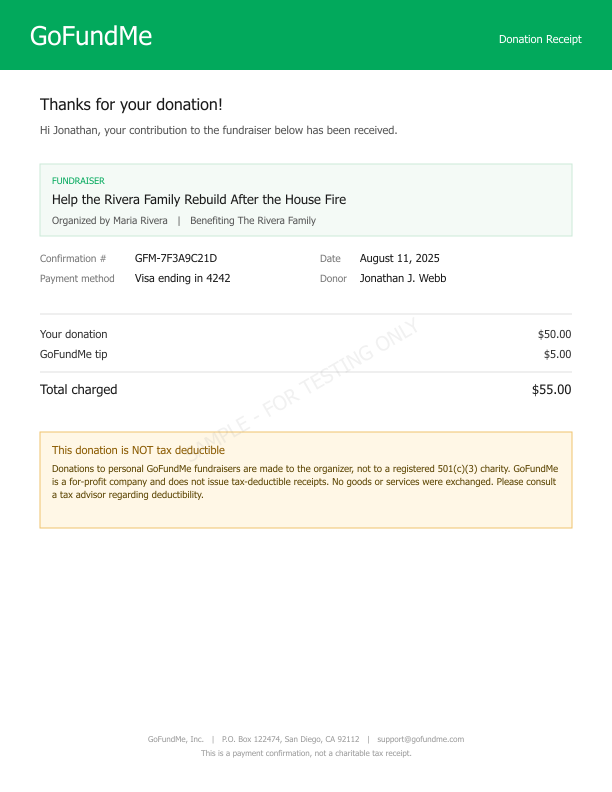
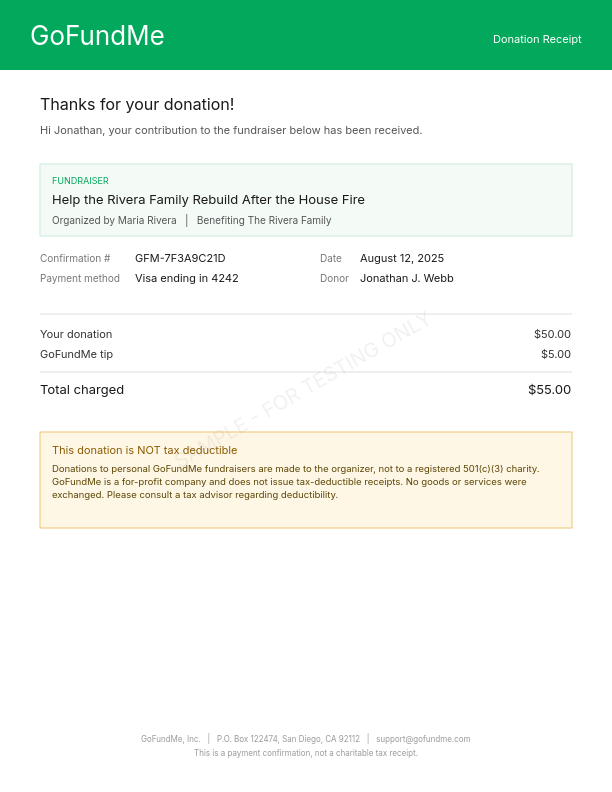
fix: align OCR fixture rendering with source data

diff --git a/scripts/generate_from_donations.js b/scripts/generate_from_donations.js
@@ -81,6 +81,16 @@ function formatMoney(amount) {
     return '$' + amount.toLocaleString('en-US', { minimumFractionDigits: 2, maximumFractionDigits: 2 });
 }
 
+function getGoFundMeReceiptAmounts(donation) {
+    const donationAmount = donation.amount;
+    const tip = donation.tip || 0;
+    return {
+        donationAmount,
+        tip,
+        total: donationAmount + tip
+    };
+}
+
 function formatAddress(donor) {
     return `${donor.address}, ${donor.city}, ${donor.state} ${donor.zip}`;
 }
@@ -561,8 +571,7 @@ function generateGoFundMeReceipt(donation) {
     ctx.fillRect(0, 0, width, height);
 
     const c = donation.campaign || {};
-    const tip = donation.tip || 0;
-    const total = donation.amount + tip;
+    const amounts = getGoFundMeReceiptAmounts(donation);
 
     // Brand header
     ctx.fillStyle = '#02a95c';
@@ -633,12 +642,12 @@ function generateGoFundMeReceipt(donation) {
     ctx.fillStyle = '#333333';
     ctx.fillText('Your donation', 40, y);
     ctx.textAlign = 'right';
-    ctx.fillText(formatMoney(donation.amount), width - 40, y);
+    ctx.fillText(formatMoney(amounts.donationAmount), width - 40, y);
     ctx.textAlign = 'left';
     y += 20;
     ctx.fillText('GoFundMe tip', 40, y);
     ctx.textAlign = 'right';
-    ctx.fillText(formatMoney(tip), width - 40, y);
+    ctx.fillText(formatMoney(amounts.tip), width - 40, y);
     ctx.textAlign = 'left';
     y += 14;
     ctx.strokeStyle = '#e0e0e0';
@@ -648,7 +657,7 @@ function generateGoFundMeReceipt(donation) {
     ctx.fillStyle = '#1a1a1a';
     ctx.fillText('Total charged', 40, y);
     ctx.textAlign = 'right';
-    ctx.fillText(formatMoney(total), width - 40, y);
+    ctx.fillText(formatMoney(amounts.total), width - 40, y);
     ctx.textAlign = 'left';
 
     y += 38;
@@ -766,10 +775,14 @@ function generateForm8283A(donation) {
     
     // Data row
     ctx.strokeRect(30, y, width - 60, 45);
-    ctx.font = '9px Inter';
-    ctx.fillText(donation.donee.name.substring(0, 25), 35, y + 15);
+    ctx.font = '8px Inter';
+    const doneeNameLines = wrapText(ctx, donation.donee.name, 150);
+    if (doneeNameLines.length > 2) {
+        throw new Error(`Donee name does not fit Form 8283-A: ${donation.donee.name}`);
+    }
+    doneeNameLines.forEach((line, index) => ctx.fillText(line, 35, y + 11 + index * 9));
     ctx.font = '7px Inter';
-    ctx.fillText(donation.donee.address.substring(0, 30), 35, y + 28);
+    ctx.fillText(donation.donee.address.substring(0, 30), 35, y + 36);
     
     ctx.font = '9px Inter';
     const descLines = wrapText(ctx, donation.assetDescription, 115);
@@ -1464,4 +1477,14 @@ async function main() {
     console.log(`  Form types:`, manifest.formCounts);
 }
 
-main().catch(console.error);
+if (require.main === module) {
+    main().catch(console.error);
+}
+
+module.exports = {
+    formatDate,
+    formatDateShort,
+    formatMoney,
+    getGoFundMeReceiptAmounts,
+    wrapText
+};

diff --git a/scripts/validate_fixtures.js b/scripts/validate_fixtures.js
@@ -2,6 +2,14 @@
 
 const fs = require('fs');
 const path = require('path');
+const { createCanvas } = require('canvas');
+const {
+    formatDate,
+    formatDateShort,
+    formatMoney,
+    getGoFundMeReceiptAmounts,
+    wrapText
+} = require('./generate_from_donations');
 
 const root = path.join(__dirname, '..');
 const donations = JSON.parse(
@@ -121,6 +129,54 @@ assert(
         d015Manifest?.expectedFields?.ein_intentional_synthetic_no_match === true,
     'D015 manifest must retain the printed EIN and its terminal NOT_FOUND expectation'
 );
+
+const d023 = fixture('D023');
+const measurementContext = createCanvas(612, 792).getContext('2d');
+measurementContext.font = '8px Inter';
+const d023DoneeNameLines = wrapText(measurementContext, d023.donee.name, 150);
+assert(
+    d023DoneeNameLines.length <= 2 &&
+        d023DoneeNameLines.join(' ') === d023.donee.name,
+    'D023 donee name must render in full within the two-line Form 8283-A cell'
+);
+
+const goFundMeExpectations = {
+    D035: {
+        date: 'August 12, 2025',
+        shortDate: '08/12/2025',
+        donation: '$50.00',
+        tip: '$5.00',
+        total: '$55.00'
+    },
+    D036: {
+        date: 'November 4, 2025',
+        shortDate: '11/04/2025',
+        donation: '$150.00',
+        tip: '$0.00',
+        total: '$150.00'
+    },
+    D037: {
+        date: 'January 19, 2026',
+        shortDate: '01/19/2026',
+        donation: '$25.00',
+        tip: '$3.75',
+        total: '$28.75'
+    }
+};
+
+for (const [id, expected] of Object.entries(goFundMeExpectations)) {
+    const donation = fixture(id);
+    const amounts = getGoFundMeReceiptAmounts(donation);
+    assert(formatDate(donation.contributionDate) === expected.date, `${id} long date drifted`);
+    assert(formatDateShort(donation.contributionDate) === expected.shortDate, `${id} short date drifted`);
+    assert(formatMoney(amounts.donationAmount) === expected.donation, `${id} donation amount drifted`);
+    assert(formatMoney(amounts.tip) === expected.tip, `${id} tip amount drifted`);
+    assert(formatMoney(amounts.total) === expected.total, `${id} total amount drifted`);
+    assert(
+        donation.deductible === false && donation.donee.ein === null,
+        `${id} must remain a non-deductible personal fundraiser without an EIN`
+    );
+}
 
 console.log(
     `Validated ${manifest.totalDonations} donations and ${manifest.totalForms} linked fixture documents.`
